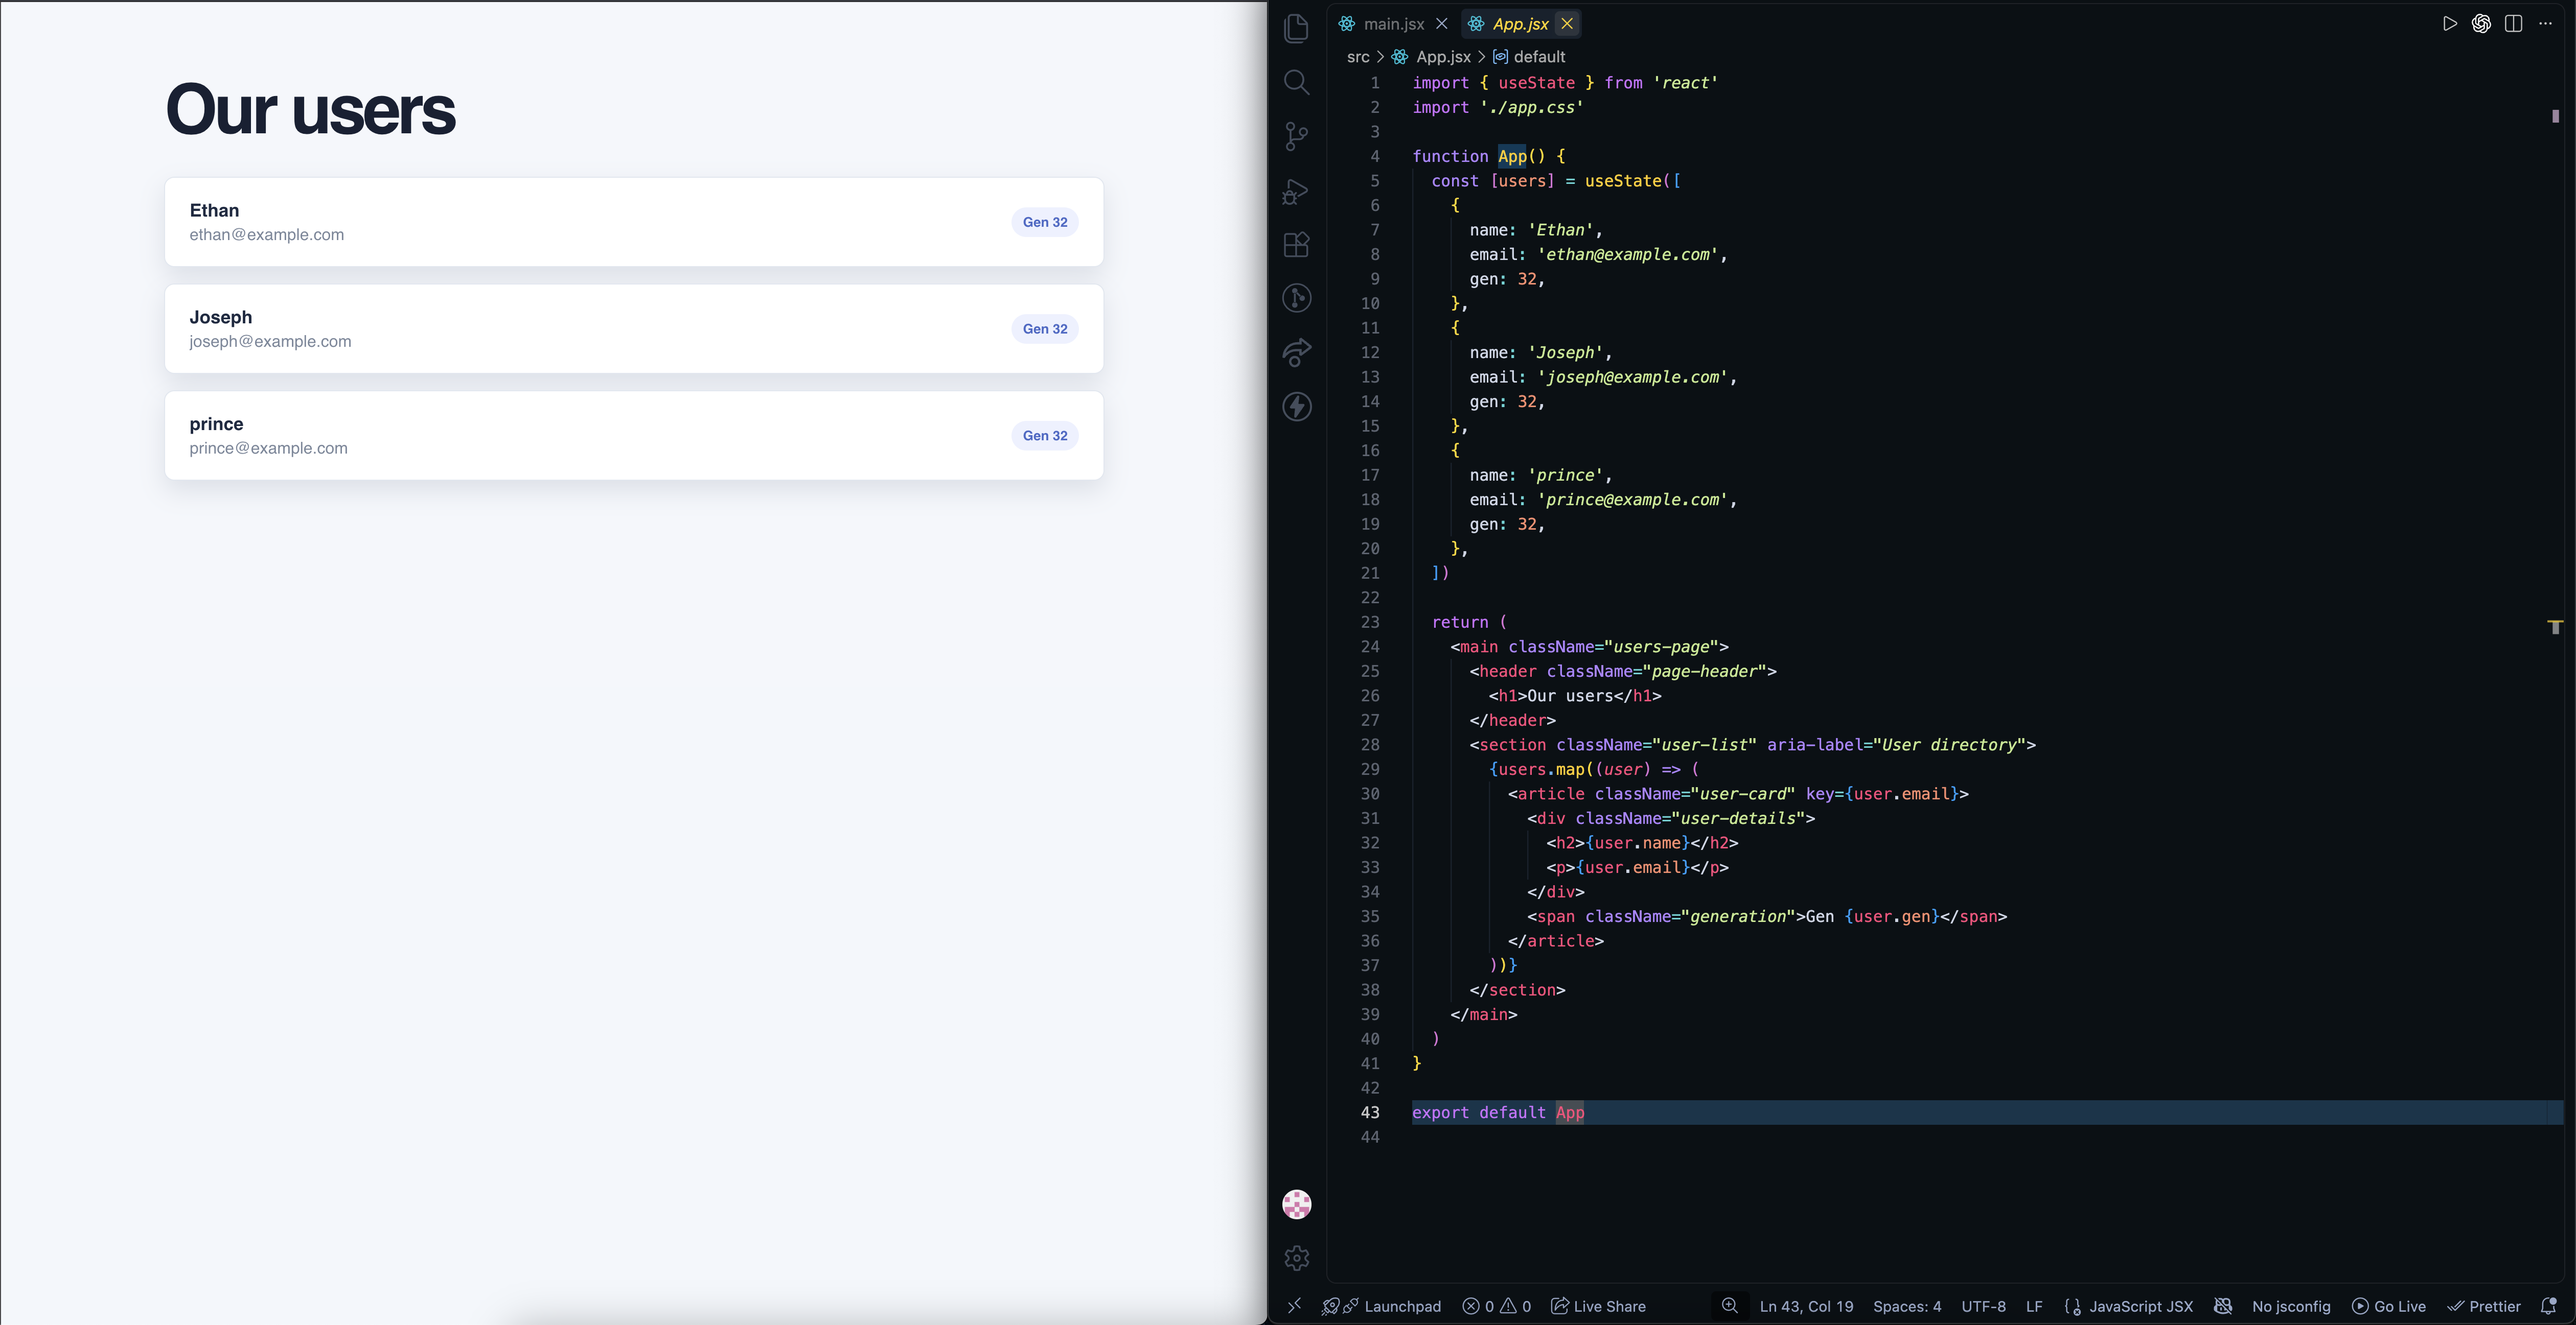
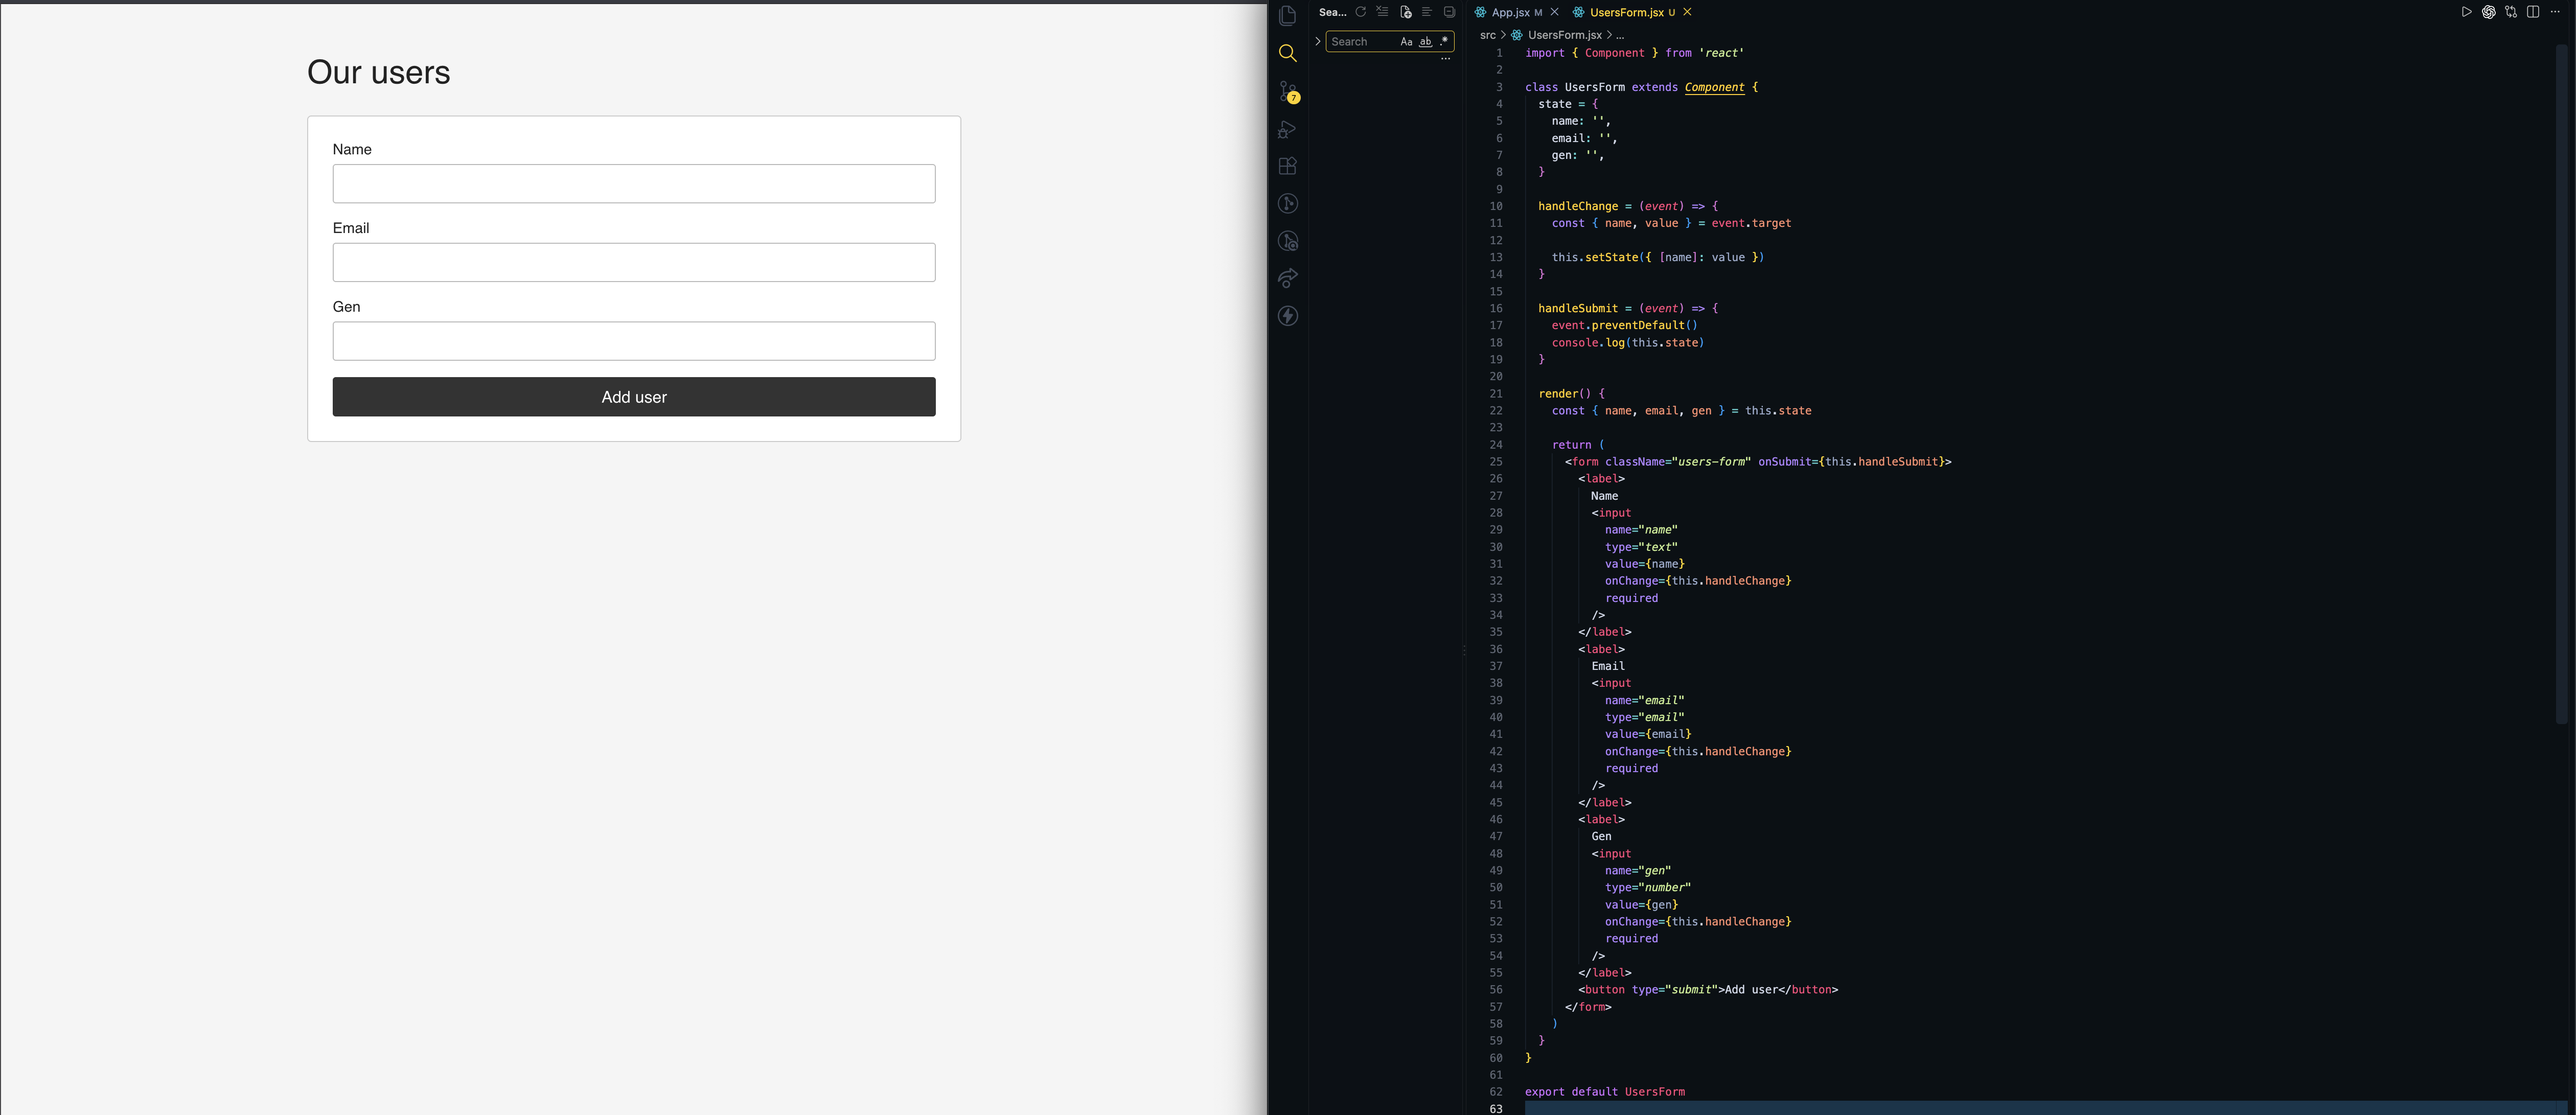
initial commit

diff --git a/src/app.css b/src/app.css
@@ -1,7 +1,7 @@
 :root {
   font-family: Helvetica, Arial, sans-serif;
-  color: #253044;
-  background: #f4f7fb;
+  color: #222;
+  background: #f5f5f5;
   font-synthesis: none;
   text-rendering: optimizeLegibility;
   -webkit-font-smoothing: antialiased;
@@ -16,88 +16,127 @@ body {
 }
 
 .users-page {
-  width: min(100% - 32px, 920px);
+  width: min(100% - 32px, 640px);
   margin: 0 auto;
-  padding: 72px 0;
+  padding: 48px 0;
 }
 
 .page-header {
-  margin-bottom: 32px;
-}
-
-h1,
-h2,
-p {
-  margin-top: 0;
+  margin-bottom: 24px;
 }
 
 h1 {
-  margin-bottom: 0;
-  color: #172033;
-  font-size: clamp(2.3rem, 6vw, 4.2rem);
-  letter-spacing: -0.055em;
-  line-height: 1;
+  margin: 0;
+  font-size: 2rem;
+  font-weight: 400;
+}
+
+.users-form {
+  display: flex;
+  width: 100%;
+  flex-direction: column;
+  gap: 16px;
+  padding: 24px;
+  border: 1px solid #ccc;
+  border-radius: 4px;
+  background: #fff;
+}
+
+.users-form label {
+  display: flex;
+  width: 100%;
+  flex-direction: column;
+  gap: 6px;
+  font-size: 0.9rem;
+}
+
+.users-form input {
+  width: 100%;
+  padding: 10px;
+  border: 1px solid #bbb;
+  border-radius: 3px;
+  color: #222;
+  background: #fff;
+  font: inherit;
+}
+
+.users-form input:focus {
+  border-color: #555;
+  outline: 1px solid #555;
+}
+
+.users-form button {
+  width: 100%;
+  padding: 10px;
+  border: 0;
+  border-radius: 3px;
+  color: #fff;
+  background: #333;
+  cursor: pointer;
+  font: inherit;
+}
+
+.users-form button:hover {
+  background: #111;
 }
 
 .user-list {
   display: grid;
-  gap: 16px;
+  gap: 12px;
+  margin-top: 24px;
 }
 
 .user-card {
   display: flex;
   align-items: center;
-  gap: 18px;
-  min-width: 0;
-  padding: 22px 24px;
-  border: 1px solid #e1e7f0;
-  border-radius: 10px;
+  justify-content: space-between;
+  gap: 16px;
+  padding: 16px;
+  border: 1px solid #ccc;
+  border-radius: 4px;
   background: #fff;
-  box-shadow: 0 10px 24px rgba(35, 55, 88, 0.12);
 }
 
-.user-details {
-  min-width: 0;
-  flex: 1;
+.user-details h2,
+.user-details p {
+  margin: 0;
 }
 
 .user-details h2 {
-  margin-bottom: 4px;
-  color: #1d2a42;
-  font-size: 1.1rem;
+  font-size: 1rem;
+  font-weight: 400;
 }
 
 .user-details p {
-  overflow: hidden;
-  margin-bottom: 0;
-  color: #7b879b;
-  text-overflow: ellipsis;
-  white-space: nowrap;
+  margin-top: 4px;
+  color: #666;
+  font-size: 0.9rem;
 }
 
 .generation {
-  padding: 7px 11px;
-  border-radius: 999px;
-  color: #4968c8;
-  background: #edf1ff;
-  font-size: 0.82rem;
-  font-weight: 700;
+  color: #555;
+  font-size: 0.85rem;
   white-space: nowrap;
+}
+
+.empty-message {
+  color: #666;
+  font-size: 1.25rem;
+  text-align: center;
 }
 
 @media (max-width: 520px) {
   .users-page {
-    width: min(100% - 24px, 920px);
-    padding: 44px 0;
+    width: min(100% - 24px, 640px);
+    padding: 32px 0;
+  }
+
+  .users-form {
+    padding: 18px;
   }
 
   .user-card {
     align-items: flex-start;
-    flex-wrap: wrap;
-    padding: 18px;
-  }
-
-  .user-details {
-    padding-top: 3px;
+    flex-direction: column;
   }
 }

diff --git a/src/App.jsx b/src/App.jsx
@@ -1,32 +1,35 @@
 import { useState } from 'react'
 import './app.css'
-import Users from './Users.jsx'
+import UsersForm from './UsersForm.jsx'
 
 function App() {
-  const [users] = useState([
-    {
-      name: 'Ethan',
-      email: 'ethan@example.com',
-      gen: 32,
-    },
-    {
-      name: 'Joseph',
-      email: 'joseph@example.com',
-      gen: 32,
-    },
-    {
-      name: 'prince',
-      email: 'prince@example.com',
-      gen: 32,
-    },
-  ])
+  const [users, setUsers] = useState([])
+
+  const handleAddUser = (newUser) => {
+    setUsers((currentUsers) => [...currentUsers, newUser])
+  }
 
   return ( 
     <main className="users-page">
       <header className="page-header">
         <h1>Our users</h1>
       </header>
-      <Users users={users} />
+      <UsersForm onAddUser={handleAddUser} />
+      {users.length === 0 ? (
+        <p className="empty-message">No users added</p>
+      ) : (
+        <section className="user-list" aria-label="User directory">
+          {users.map((user) => (
+            <article className="user-card" key={`${user.email}-${user.name}`}>
+              <div className="user-details">
+                <h2>{user.name}</h2>
+                <p>{user.email}</p>
+              </div>
+              <span className="generation">Gen {user.gen}</span>
+            </article>
+          ))}
+        </section>
+      )}
     </main>
   )
 }

diff --git a/src/UsersForm.jsx b/src/UsersForm.jsx
@@ -1,0 +1,68 @@
+import { Component } from 'react'
+
+class UsersForm extends Component {
+  state = {
+    name: '',
+    email: '',
+    gen: '',
+  }
+
+  handleChange = (event) => {
+    const { name, value } = event.target
+
+    this.setState({ [name]: value })
+  }
+
+  handleSubmit = (event) => {
+    event.preventDefault()
+    console.log(this.state)
+    this.props.onAddUser(this.state)
+    this.setState({
+      name: '',
+      email: '',
+      gen: '',
+    })
+  }
+
+  render() {
+    const { name, email, gen } = this.state
+
+    return (
+      <form className="users-form" onSubmit={this.handleSubmit}>
+        <label>
+          Name
+          <input
+            name="name"
+            type="text"
+            value={name}
+            onChange={this.handleChange}
+            required
+          />
+        </label>
+        <label>
+          Email
+          <input
+            name="email"
+            type="email"
+            value={email}
+            onChange={this.handleChange}
+            required
+          />
+        </label>
+        <label>
+          Gen
+          <input
+            name="gen"
+            type="number"
+            value={gen}
+            onChange={this.handleChange}
+            required
+          />
+        </label>
+        <button type="submit">Add user</button>
+      </form>
+    )
+  }
+}
+
+export default UsersForm

diff --git a/README.md b/README.md
@@ -1,13 +1,9 @@
-# Screenshot of work (React Week 6 Exercise, Part 1)
+# Screenshot of work (React Week 6 Exercise, Part 2)
 
-## User list hardcoded in App.jsx
+## UsersForm.jsx
 
 ![Screenshot of work](./public/screenshot-1.png)
 
-## User list component imported into App.jsx
+## Form updating the UI
 
-![Screenshot of work](./public/screenshot-2.png)
-
-## User list component
-
-![Screenshot of work](./public/screenshot-3.png)
+![Screenshot of work](./public/form-video.gif)
